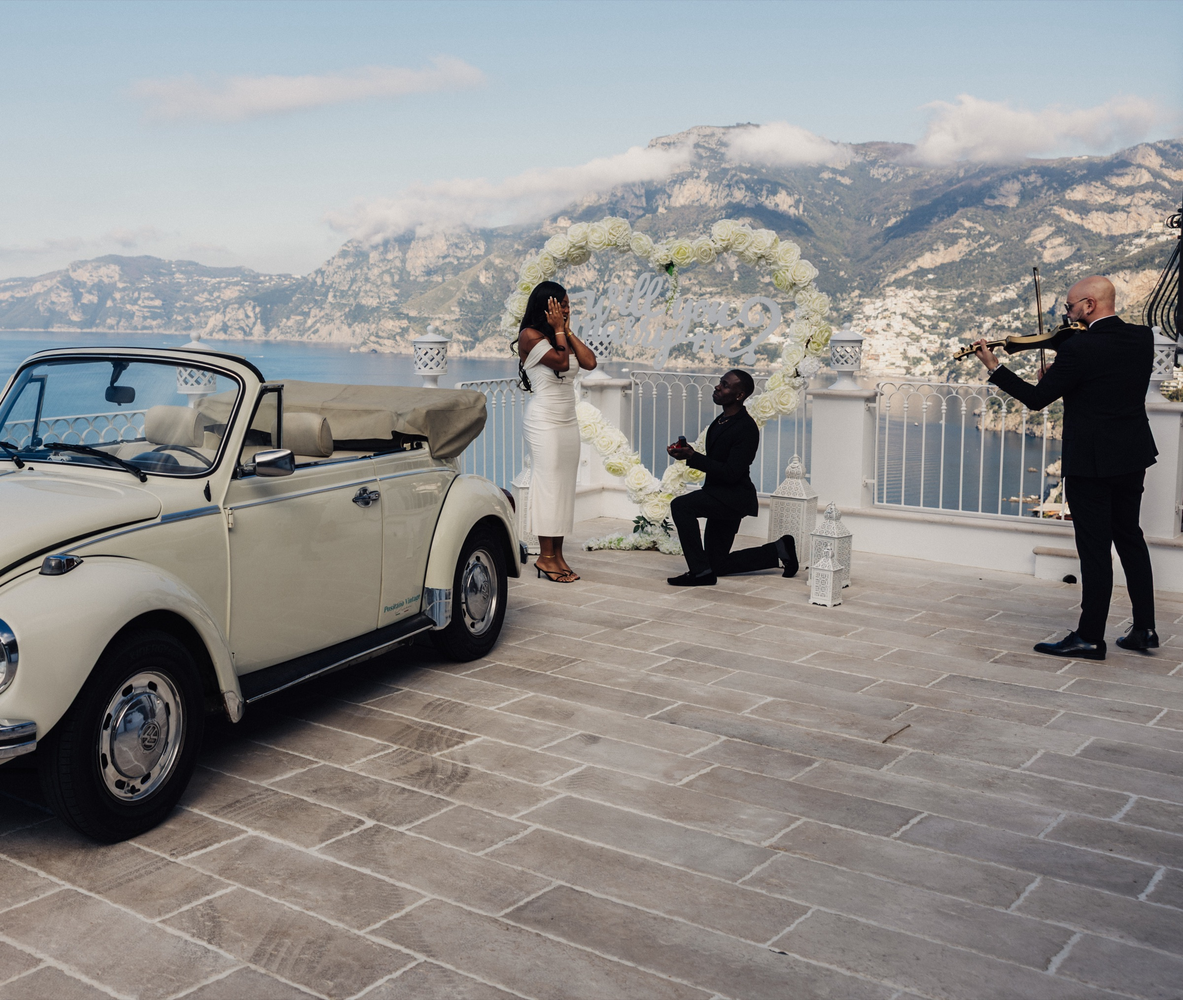
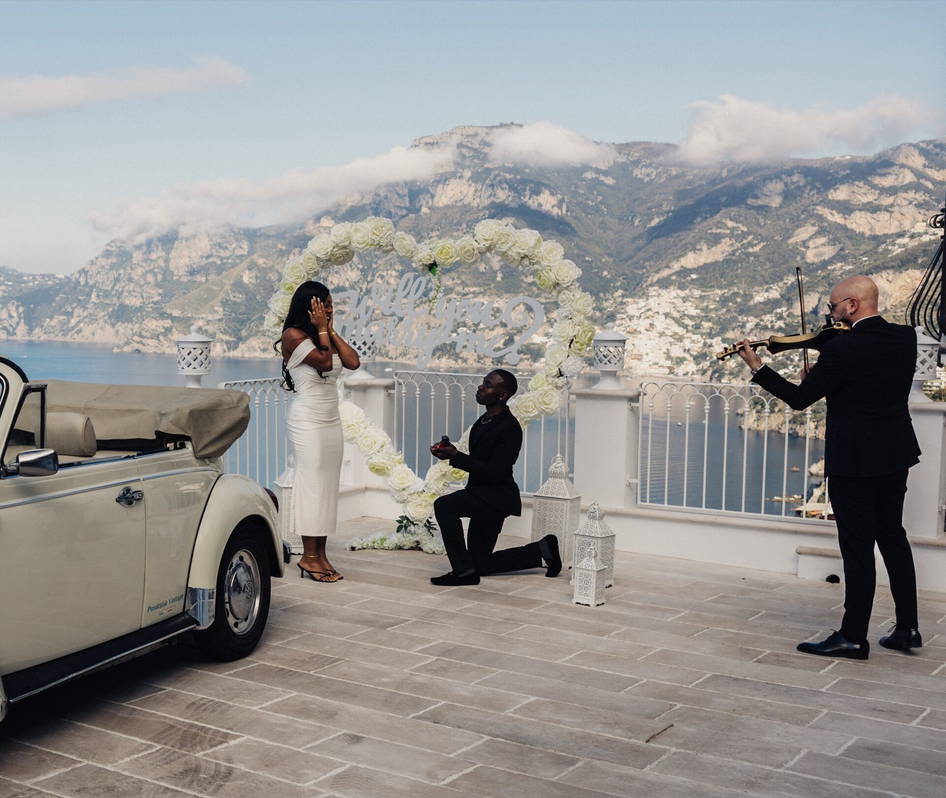
content: tighter Proposal photo, framed on the violinist
Re-cropped Proposal.jpg (less car, violinist larger; 1.2 MB -> 435 KB)
and anchored it to the right so the violinist stays in frame on the
home Occasions strip and the marriage-proposal hero. CLAUDE.md updated.

diff --git a/src/components/sections/Occasions.jsx b/src/components/sections/Occasions.jsx
@@ -20,6 +20,7 @@ const OCCASIONS = [
     description: 'A violin solo on a panoramic terrace above the Gulf of Salerno, or a saxophone at golden hour along the Positano coastline. Discreetly arranged, precisely timed — music that shapes the setting without announcing itself.',
     pageHref:    '/occasions/marriage-proposal',
     img:         '/images/Proposal.jpg',
+    imgPosition: 'right center',   // the violinist stands at the right edge of the photo
     options: [
       { label: 'Violin Solo', href: '/violin-solo'     },
       { label: 'Saxophone',   href: '/music/saxophone' },
@@ -58,7 +59,8 @@ function MomentStrip({ moment, dark = false }) {
     <article className="group flex flex-col md:flex-row border-b border-black/[.06] last:border-b-0">
       <div className="md:w-[38%] min-h-[240px] md:min-h-[320px] flex-shrink-0 overflow-hidden bg-[#1A1A1A]">
         {moment.img ? (
-          <img src={moment.img} alt={moment.label} className="w-full h-full object-cover" />
+          <img src={moment.img} alt={moment.label} className="w-full h-full object-cover"
+            style={{ objectPosition: moment.imgPosition ?? 'center' }} />
         ) : (
           <div className={`w-full h-full bg-gradient-to-br ${moment.gradient}`} />
         )}

diff --git a/src/pages/occasions/MarriageProposal.jsx b/src/pages/occasions/MarriageProposal.jsx
@@ -80,7 +80,7 @@ export default function OccasionMarriageProposal() {
         <div className="relative min-h-[52svh] md:min-h-[clamp(30rem,72svh,48rem)] overflow-hidden">
           <img src="/images/Proposal.jpg" alt="Marriage proposal on the Amalfi Coast" fetchpriority="high"
             className="absolute inset-0 w-full h-full object-cover"
-            style={{ objectPosition: 'center' }} />
+            style={{ objectPosition: 'right center' }} />
         </div>
       </section>
 

diff --git a/CLAUDE.md b/CLAUDE.md
@@ -109,6 +109,10 @@ public/
 │   ├── private-dinner-candlelight.jpg (Occasions/Birthdays — dal 2026-10-12: foto vera Unsplash di Michael Fousert, licenza Unsplash
 │   │                                   libera anche commerciale, id cGZ-X0nAUgY; sostituisce Dinner.jpg generata)
 │   ├── Corporate.jpg              (Occasions/Corporate — fotogramma VERO dal video EvoStrings al Salone Margherita; sostituisce Cocktail.jpg)
+│   ├── Proposal.jpg               (Occasions/Proposta + hero /occasions/marriage-proposal — foto vera, terrazza su Positano con
+│   │                               violinista a destra; dal 2026-10-12 ritagliata più stretta (meno auto, violinista più grande),
+│   │                               1920×1620, 1,2 MB → 435 KB; `objectPosition: 'right center'` così il violinista resta
+│   │                               nell'inquadratura anche quando la foto viene tagliata)
 │   ├── EvoStrings/     EvoStrings.jpg
 │   ├── Trilogy Trio/   Trilogy Trio 0-3 + Trilogy Trio.jpg
 │   ├── Violin Solo/    immagine_donato.JPG
@@ -228,7 +232,7 @@ Ogni blocco testo è avvolto in uno `<span>` con:
 - **Favicon su Google:** dopo il deploy delle fedi, chiedere reindicizzazione della home in Search Console ("Controllo URL" → "Richiedi indicizzazione") per far aggiornare la favicon nei risultati (Google ci mette da giorni a settimane).
 - **Fatti ✓ (2026-07-06):** migrazione SSG (tutte le 19 route pre-renderizzate), foto About, compressione video (171→24MB) e immagini (58→8MB), auto-deploy ripristinato
 - **Fatti ✓ (2026-07-10):** rifatta favicon → **marchio a fedi intrecciate** (era "WMR"); set completo `favicon.ico`/16/32/512/apple-touch/android-chrome/`site.webmanifest` con path assoluti (risolto il problema della favicon donatocipriano.com in cache su Google + i 404 su `/favicon.ico`); `og-cover.jpg` (anteprima social/WhatsApp) lasciata intatta.
-- **Fatti ✓ (2026-10-11/12):** azioni Ads vecchie `/thank-you` rese Secondarie; design chiaro (PR #3); foto Occasions (Corporate vera, cerimonia e Birthdays ricolorate); Posteggia con foto e video veri + pulsante "Sound on"; pagine DJ e Vocalist unite in "DJ & Vocalist" (`/music/vocalist` → redirect); pagina Sax con 3 video veri del Marincanto (Positano).
+- **Fatti ✓ (2026-10-11/12):** azioni Ads vecchie `/thank-you` rese Secondarie; design chiaro (PR #3); foto Occasions (Corporate vera, cerimonia e Birthdays ricolorate); Posteggia con foto e video veri + pulsante "Sound on"; pagine DJ e Vocalist unite in "DJ & Vocalist" (`/music/vocalist` → redirect); pagina Sax con 3 video veri del Marincanto (Positano); foto della Proposta ritagliata e centrata sul violinista (home + landing).
 - **Fatti ✓ (2026-10-11):** dominio `weddingmusicravello.com` verificato in Resend e consegna confermata (il fallback di `MAIL_FROM` nel codice è `info@weddingmusicravello.com`, non `onboarding@resend.dev`: il vecchio commento era sbagliato); conversioni Ads esplicite + WhatsApp + campo telefono + provenienza nelle email + CTA nelle hero; video del menu non più scaricato su ogni pagina.
 - **Fatti ✓:** form Contact collegato a backend reale (`api/enquiry.js`, Vercel Serverless + Resend); aggiunte pagine `FAQ.jsx` e `Privacy.jsx`.
 
